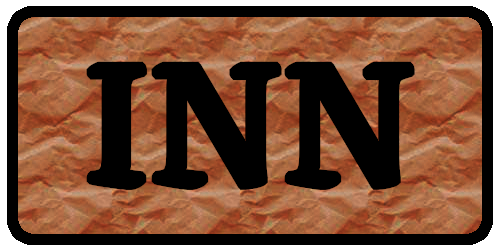
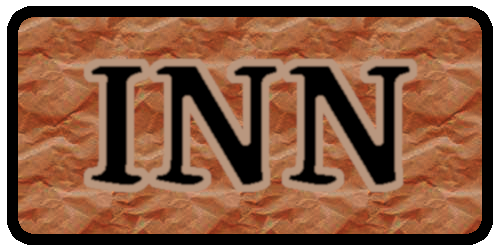
updated train/inn sign and slightly move train warp

Changed region(s): [[0.15, 0.224, 0.84, 0.784]]

diff --git a/src/data/warp.ts b/src/data/warp.ts
@@ -37,7 +37,7 @@ type Data = DataProps<Warp> & {
 
 export const WarpData: Record<WarpType, Data> = {
   [WarpType.Town]: {
-    x: 300,
+    x: 280,
     y: 650,
     key: Key.Down,
     warpTo: WarpType.Station,
